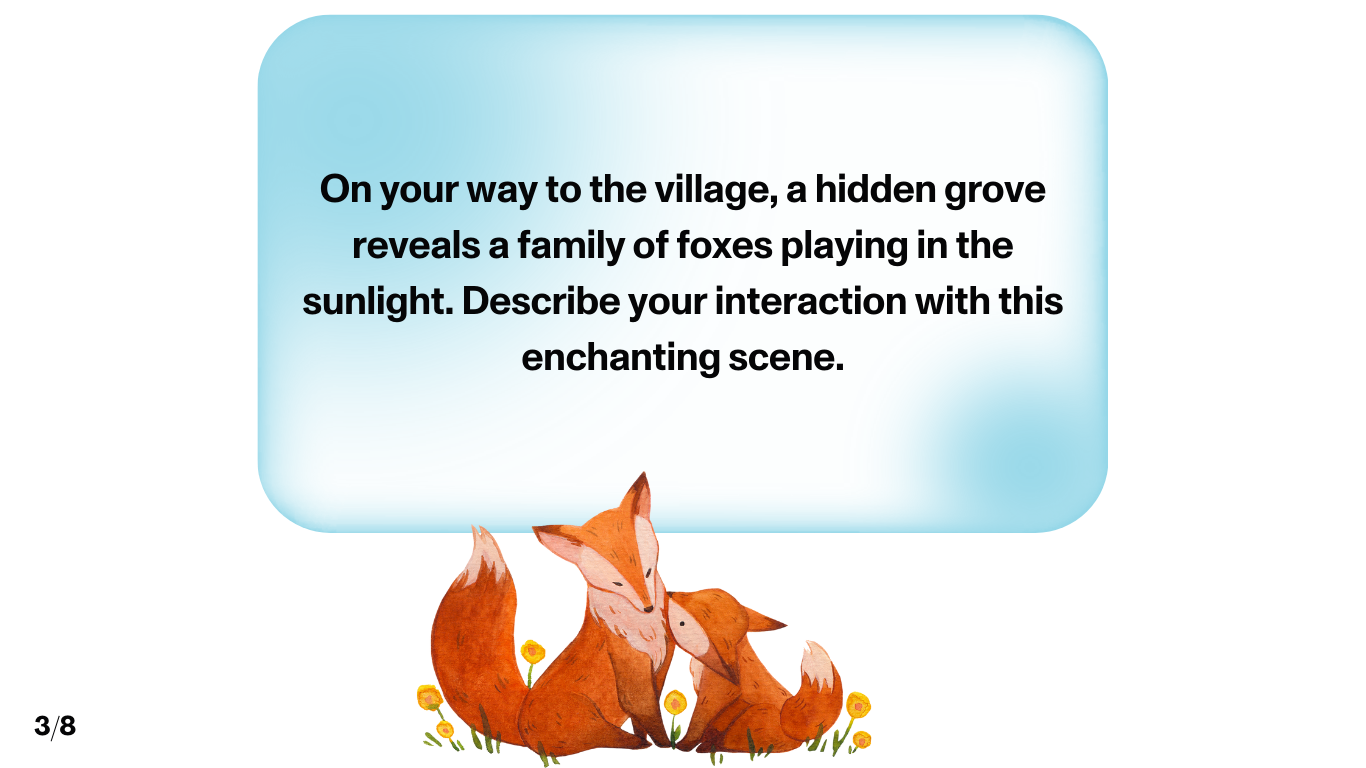
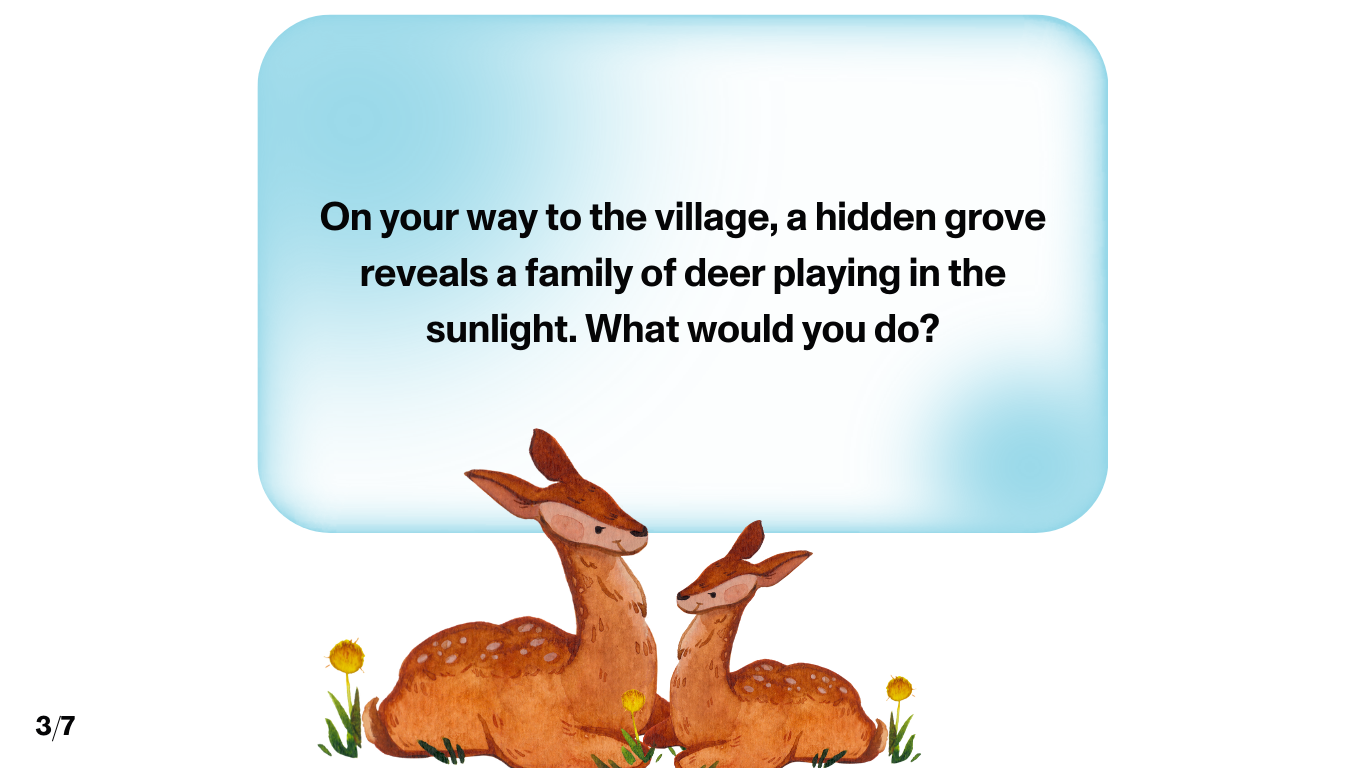
commit

Changed region(s): [[0.2152, 0.2188, 0.7994, 0.5], [0.2152, 0.5625, 0.6764, 1.0], [0.0307, 0.9375, 0.0615, 0.9688]]

diff --git a/real-time/AI-Fortune-Teller/streamlit_app.py b/real-time/AI-Fortune-Teller/streamlit_app.py
@@ -10,14 +10,39 @@ from openai import OpenAI
 
 # Prompt
 full_transcript = [
-	{"role":"system", "content":"""You are an AI Fortune-teller. I have asked 8 questions to a user and gotten answers for each question which I have numbered 1 to 8. Here are the 8 questions:  1. You awaken on a train, you're gliding past rolling hills and tranquil lakes. What thoughts or daydreams do you entertain as you gaze out of the window?
-2. As the train slows, you spy an ancient village nestled on the mountainside, a tapestry of colorful rooftops and smoke curling from chimneys. If you were to disembark here, what's the first thing you would do?
-3. On your way to the village, a hidden grove reveals a family of foxes playing in the sunlight. Describe your interaction with this enchanting scene.
-4. After departing the train to explore the village, you discover a trail leading to an enchanting cave. As you approach, you hear the faint melody of an unseen musician. How do you search for the source of this music?
-5. The trail leads you to a bustling market filled with exotic spices and colorful textiles. Amidst the stalls, a fortune teller catches your eye, offering to read your palm. Do you accept, and if so, what question do you eagerly ask about your future?
-6. You exit the market with a mysterious trinket in hand. As dusk falls, you find a garden aglow with fireflies. What wish would you make here, in this place where some believe the veil between worlds is thin?
-7. As night envelops the village, you accept an invitation to a local celebration. The villagers share stories of their heritage and invite you to partake in a time-honored dance. Describe your experience dancing under the starlit sky.
-8. The festivities wind down, and you find yourself back at the train station, the adventure drawing to a close. Reflecting on your journey, what have you learned about yourself, and how has this experience shaped your thoughts about where you'll go next?  I will send you the responses for each of these questions from the user. Everytime I send you a response you need to choose a fortune which closely align with their responses. Choose between these fortunes:  fortune-1: Nomad. Fortune: As a Nomad, the horizon calls to your soul. Unfamiliar lands await your footprint, and your adaptability will be the currency of your travels. Wander with purpose, for your journey is as rich as your destination. Traits: Explorer, Drifter, Trailblazer, Survivor, Adaptable fortune-2: Hermit. Fortune: Solitude is the canvas of the Hermit's soul. In the quiet, find strength and self-reliance. The world's noise fades away, leaving only the truth you seek in the echoes of your heart. Traits: Solitary, Reflective, Thoughtful, Self-Sufficient, Introspective  
+	{"role":"system", "content":"""You are an AI Fortune-teller. I have asked 7 questions to a user and gotten answers for each question which I have numbered 1 to 7. Here are the 9 questions:Q1. You awaken on a train, you're gliding past rolling hills and tranquil lakes. Describe your initial feelings. What's the first thing you'd do?
+2. As the train slows, you spy an ancient village nestled in the mountainside. Tell me what you feel compelled to explore. What draws your attention?
+3. On your way to the village, a hidden grove reveals a family of deer playing in the sunlight. What would you do?
+4. Next, you discover a trail leading to an enchanting cave. As you approach, you hear the faint melody of an unseen musician. What kind of music do you hear?
+5. At last, you’ve reached the village and its bustling market filled with trinkets and colorful textiles. Amidst the stalls, a fortune teller catches your eye, offering to read your palm. Do you ask a question about your past, present or future?
+6. As night envelops the village, you accept an invitation to a local celebration. The villagers share stories of their heritage and invite you to partake in a time-honored dance. Do you accept the invitation or do you move on in your journey?
+7. On the way back to the train, you come to a crossroads of two paths, one going left and one going right. Which one do you take instinctively?
+  ------------------------------------------------------------------
+Based on their answers to the above questions, you need to decide their fortunes from these following 10 fortunes:
+1. Nomad - Free-Spirited, Independent, Wanderlust, Flexible, Adventurous.
+Traits: Explorer, Drifter, Trailblazer, Survivor, Adaptable.
+
+2. Hermit - Solitary, Reflective, Thoughtful, Self-Sufficient, Introspective.
+Traits: Sage, Loner, Philosopher, Contemplative, Independent.
+
+3. Sovereign - Decisive, Commanding, Structured, Ambitious, Resolute.
+Traits: Leader, Pioneer, Strategist, Regal, Authoritative.
+
+4. Dynamo - Energetic, Forceful, Competitive, Dynamic, Driven.
+Traits: Mover, Shaker, Achiever, Motivator, Warrior.
+
+5. Harmony - Balanced, Peaceful, Diplomatic, Cooperative, Understanding.
+Traits: Mediator, Peacemaker, Consensus-Builder, Tranquil, Listener.
+
+6. Sentinel - Protective, Loyal, Dependable, Observant, Conscientious.
+Traits: Guardian, Watcher, Defender, Stalwart, Reliable.
+
+7. Rebel - Unconventional, Questioning, Nonconforming, Bold, Free.
+Traits: Renegade, Anarchist, Maverick, Reformer, Revolutionary.
+
+8. Mystic - Mysterious, Spiritual, Contemplative, Introspective, Peaceful.
+Traits: Sage, Seer, Healer, Philosopher, Mediator.
+
 You should only respond with the number of their fortunes, so for example, 1 or 2. That’s it, DO NOT response with anything else."""},
 ]
 
